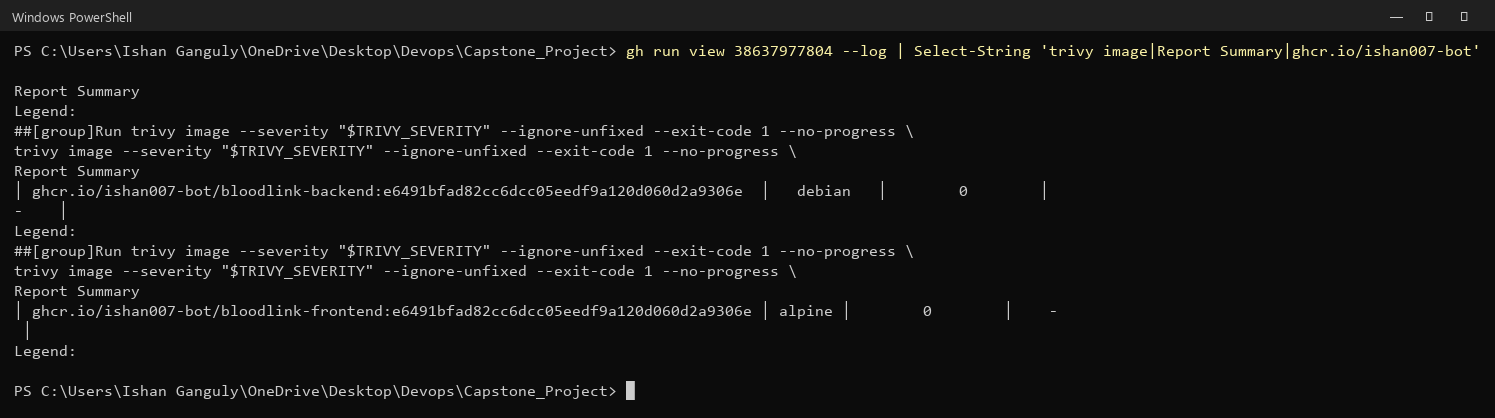
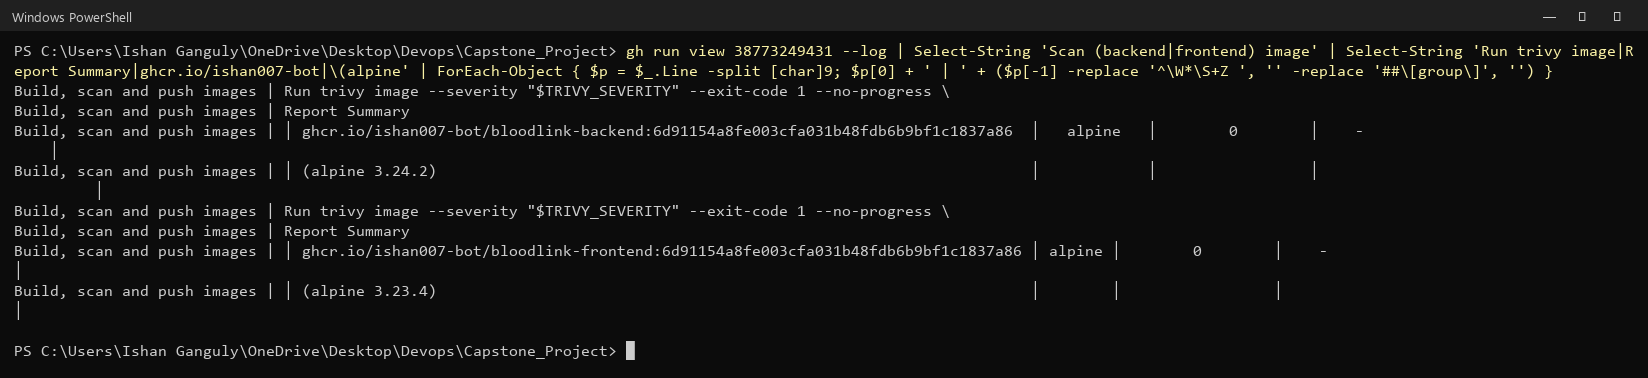
Update Trivy evidence for the strict gate

diff --git a/README.md b/README.md
@@ -69,9 +69,9 @@ flowchart LR
 | Backend | Python 3.12, FastAPI, SQLAlchemy 2, Alembic, Pydantic v2 |
 | Database | PostgreSQL 16 |
 | Tests | pytest (81 tests, 97 % coverage), ruff lint + format |
-| Containers | Multi-stage Docker builds, non-root users, Docker Compose |
+| Containers | Multi-stage Docker builds on Alpine, non-root users, read-only root filesystem, Docker Compose |
 | CI/CD | GitHub Actions: tests → frontend build → secret & dependency scan → IaC checks → image build → Trivy gate → GHCR → Helm deploy |
-| Security | Trivy (images + IaC), gitleaks, pip-audit, npm audit, Pod Security "restricted", NetworkPolicy, OIDC (no AWS keys in GitHub) |
+| Security | Trivy (images + IaC; fails on any HIGH/CRITICAL, fixed or not), gitleaks, pip-audit, npm audit, Pod Security "restricted", NetworkPolicy, OIDC (no AWS keys in GitHub) |
 | Infrastructure | Terraform: VPC (2 public + 2 private subnets, NAT), EKS with managed node group and add-ons, S3 remote state |
 | Kubernetes | Helm chart: Deployments, StatefulSet, Services, Ingress, HPA, PDB, NetworkPolicy, CronJob, Secret |
 | Observability | kube-prometheus-stack: ServiceMonitor, 7 alert rules, Grafana dashboard provisioned from the chart |
